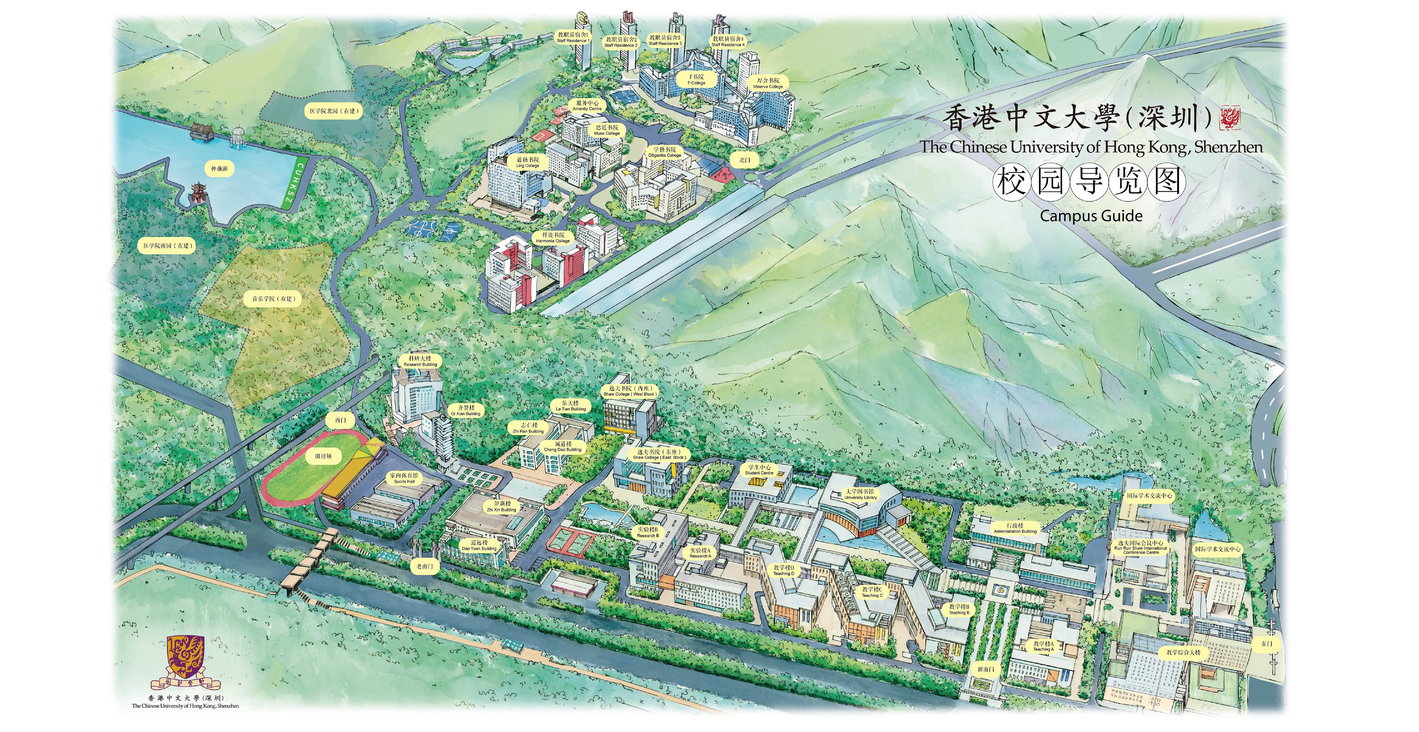
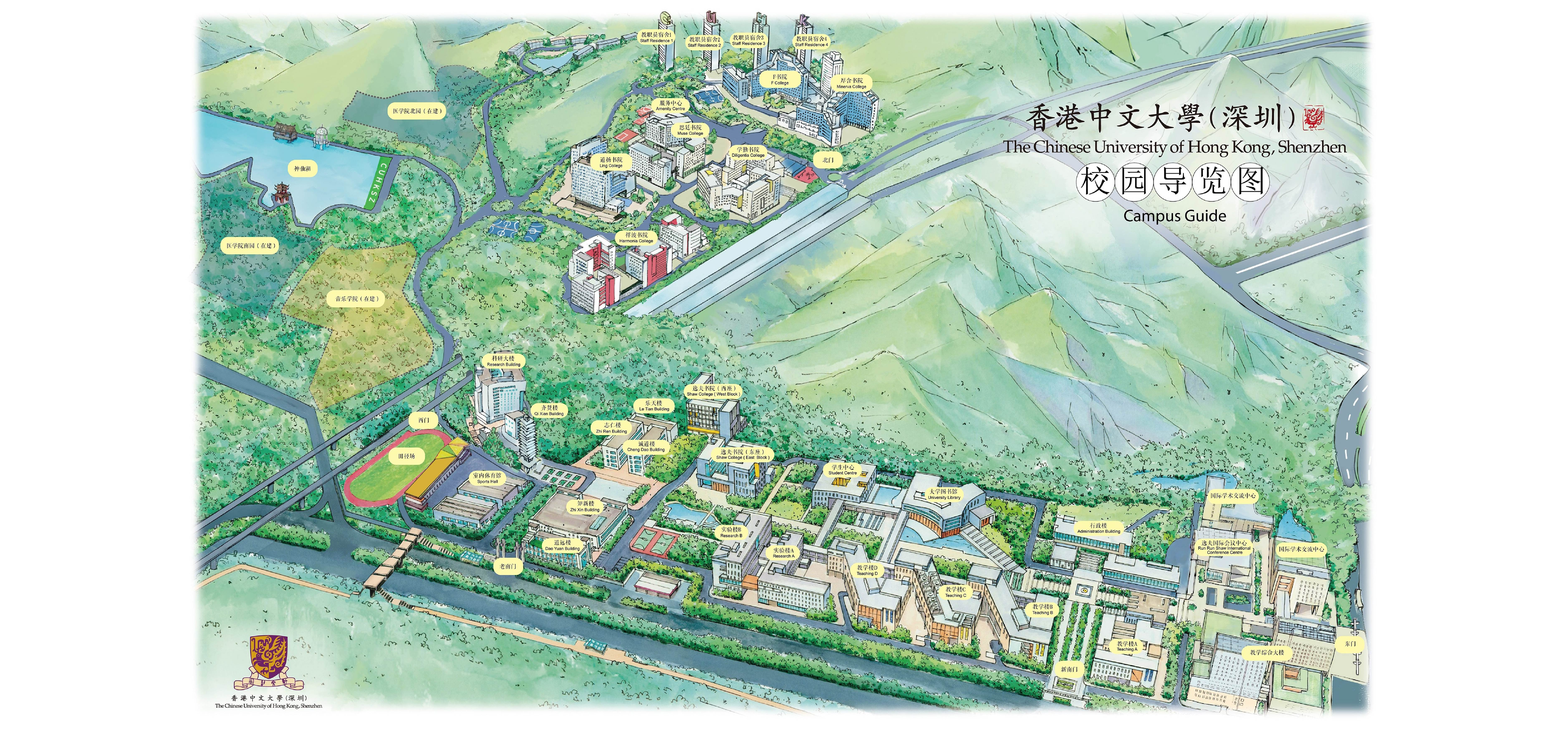
test

diff --git a/content/contact/index.md b/content/contact/index.md
@@ -52,12 +52,12 @@ sections:
       columns: '1'
       background:
         image: 
-          filename: Campus Map.jpg
+          filename: Campus Map resized.jpg
           filters:
             brightness: 1
           parallax: false
           position: center
-          size: 
+          size: cover
           text_color_light: true
       spacing:
         padding: ['20px', '0', '20px', '0']
